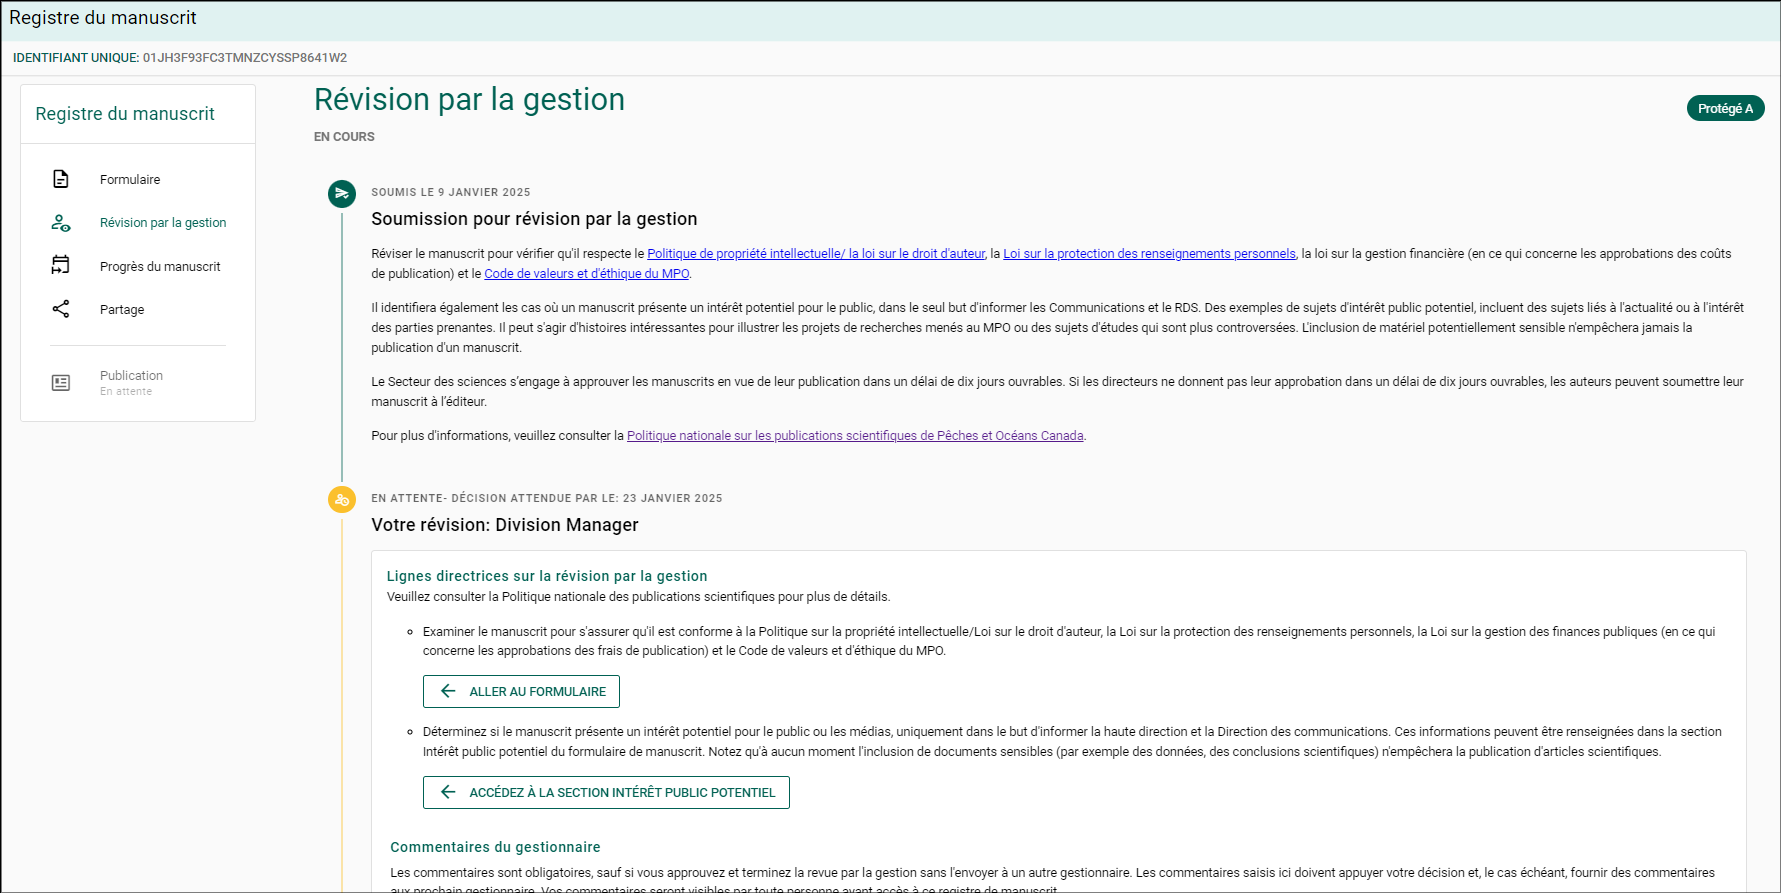
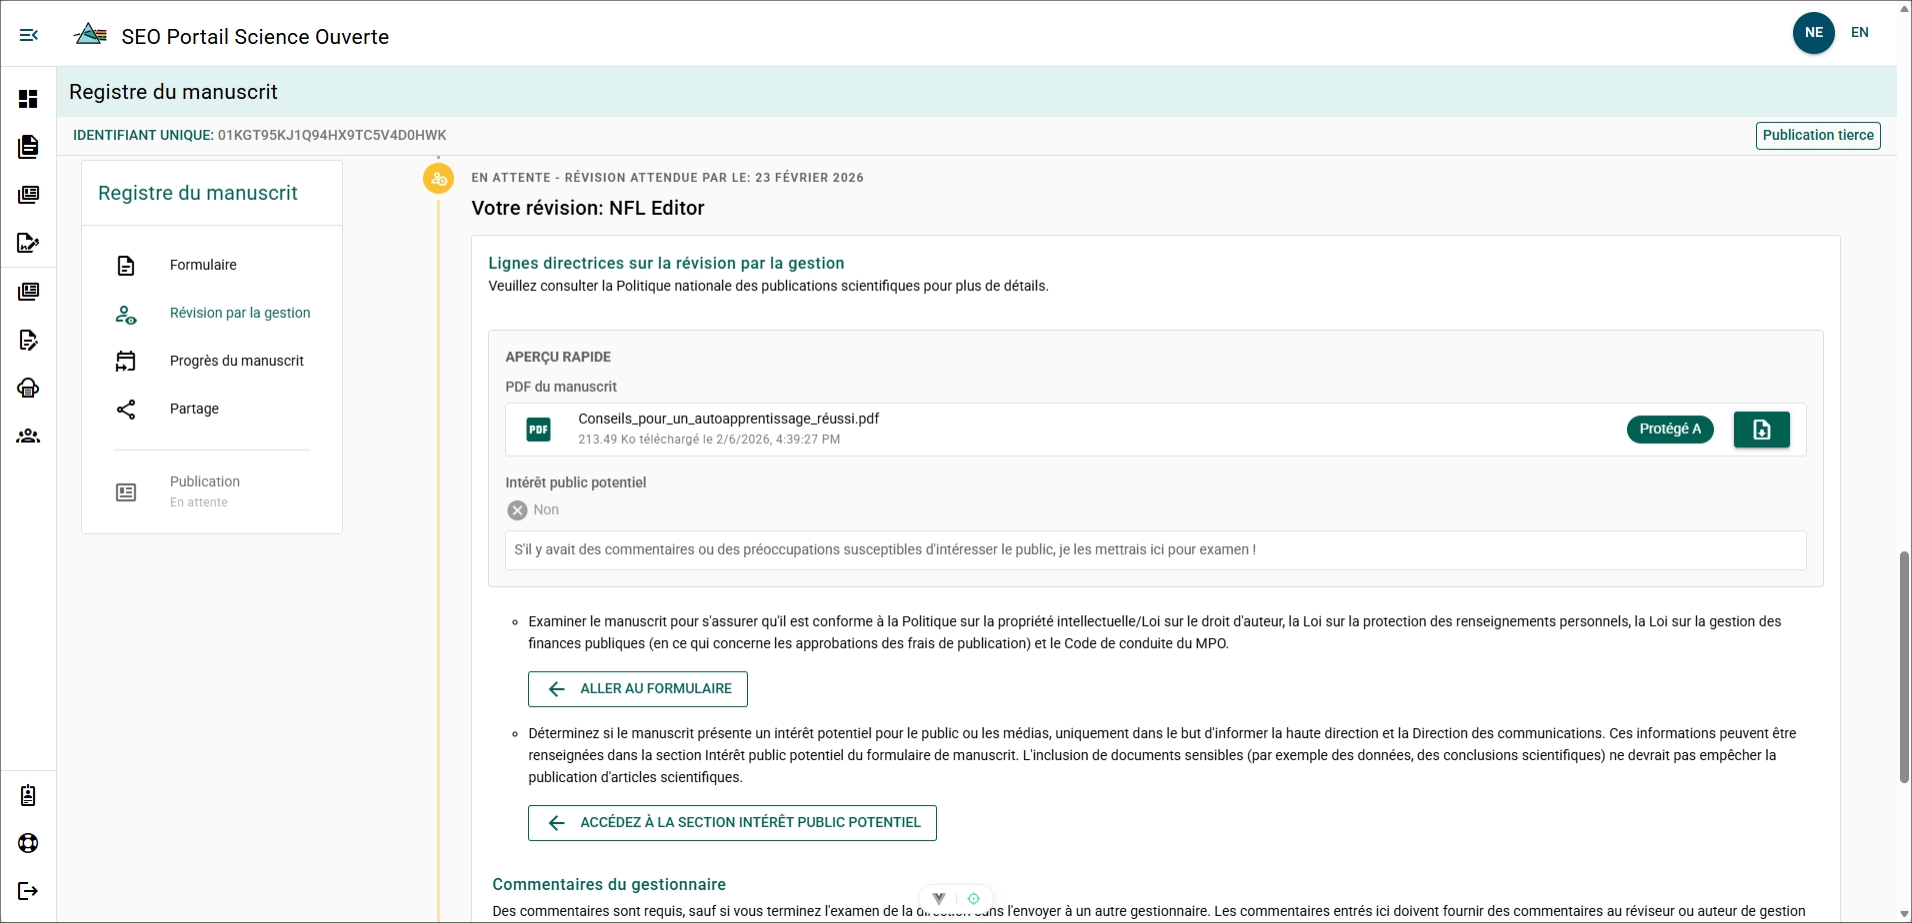
update: added image and text for quick review

diff --git a/docs/fr/publication-process/management-review-process.md b/docs/fr/publication-process/management-review-process.md
@@ -65,7 +65,9 @@ Il n’y a pas de délai de 10 jours ouvrables pour les publications du MPO. Con
 Tant que vous êtes le réviseur actuel, vous pouvez modifier le formulaire de FDM au besoin.
 :::
 
-Pour examiner le formulaire de manuscrit :
+Le manuscrit et tout intérêt public potentiel peuvent être examinés dans le panneau d’aperçu rapide de la page **Examen de gestion des manuscrits**.
+
+Pour examiner le formulaire complet du manuscrit :
 
 1. Cliquez sur le **bouton <- ALLER AU FORMULAIRE DE MANUSCRIT**.
 2. Cliquez sur l’**icône de téléchargement** pour télécharger une copie PDF du manuscrit.

diff --git a/docs/en/publication-process/management-review-process.md b/docs/en/publication-process/management-review-process.md
@@ -67,7 +67,9 @@ There is no 10-working-day timeline for DFO publications. As per the policy, man
 While you are the current reviewer, you are able to edit the MRF form as required.
 :::
 
-To review the Manuscript Form:
+The Manuscript and any Potential Public Interest can be reviewed in the Quick Review panel in the Manuscript Management Review page.
+
+To review the full Manuscript Form:
 
 1. Click the **<- GO TO MANUSCRIPT FORM** button.
 2. Click the **Download icon** to download a PDF copy of the manuscript.
